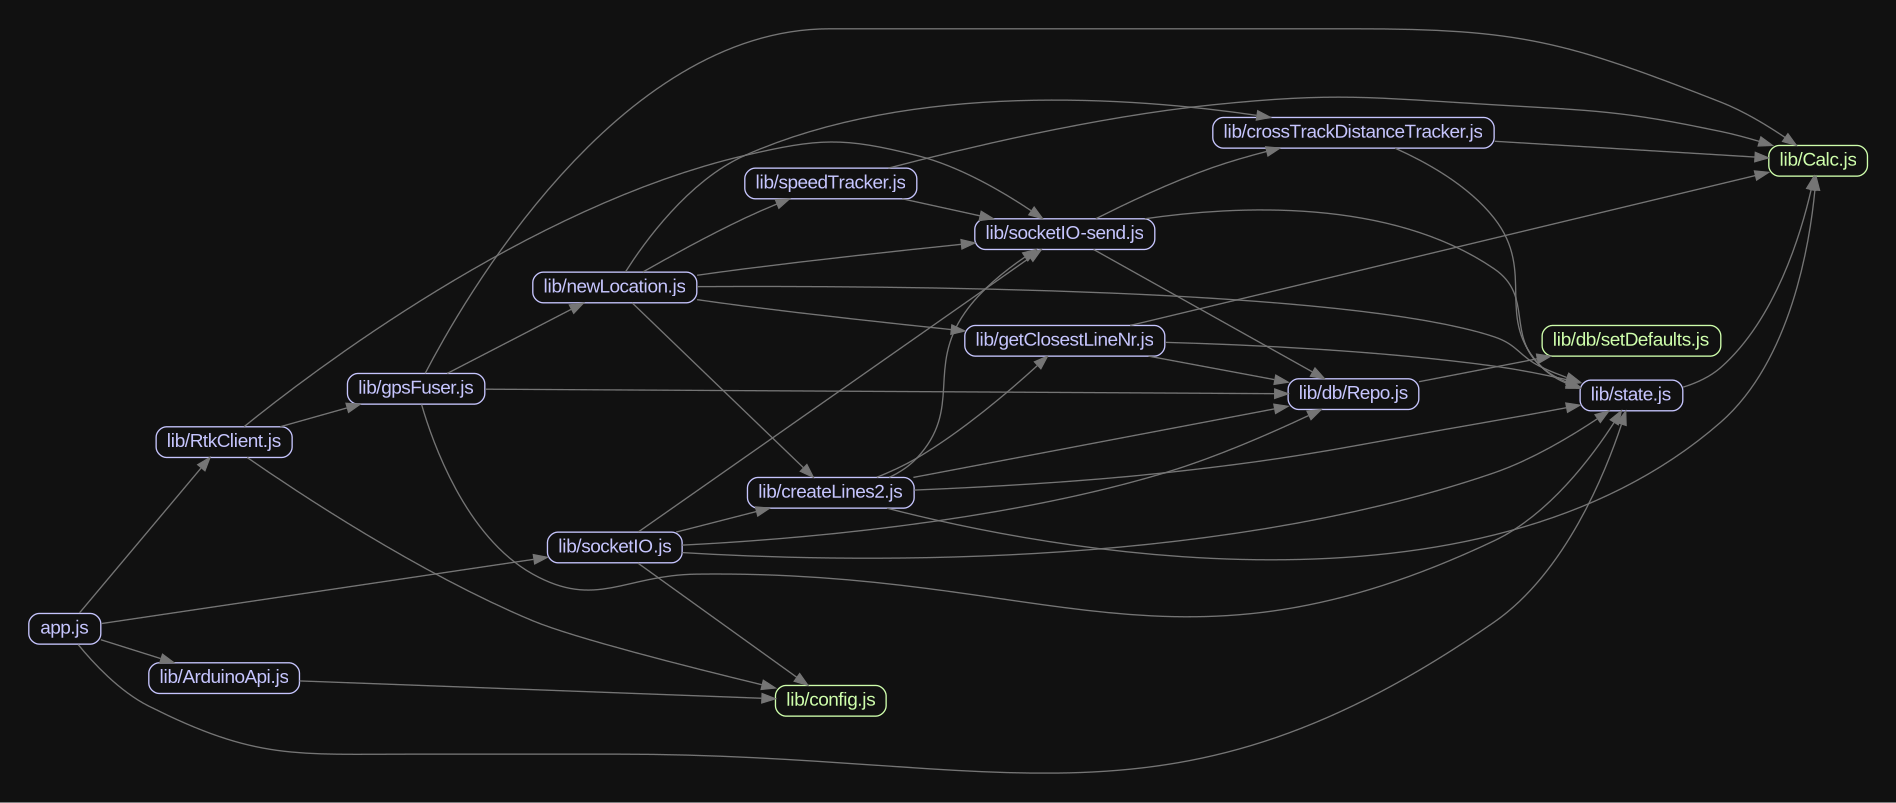
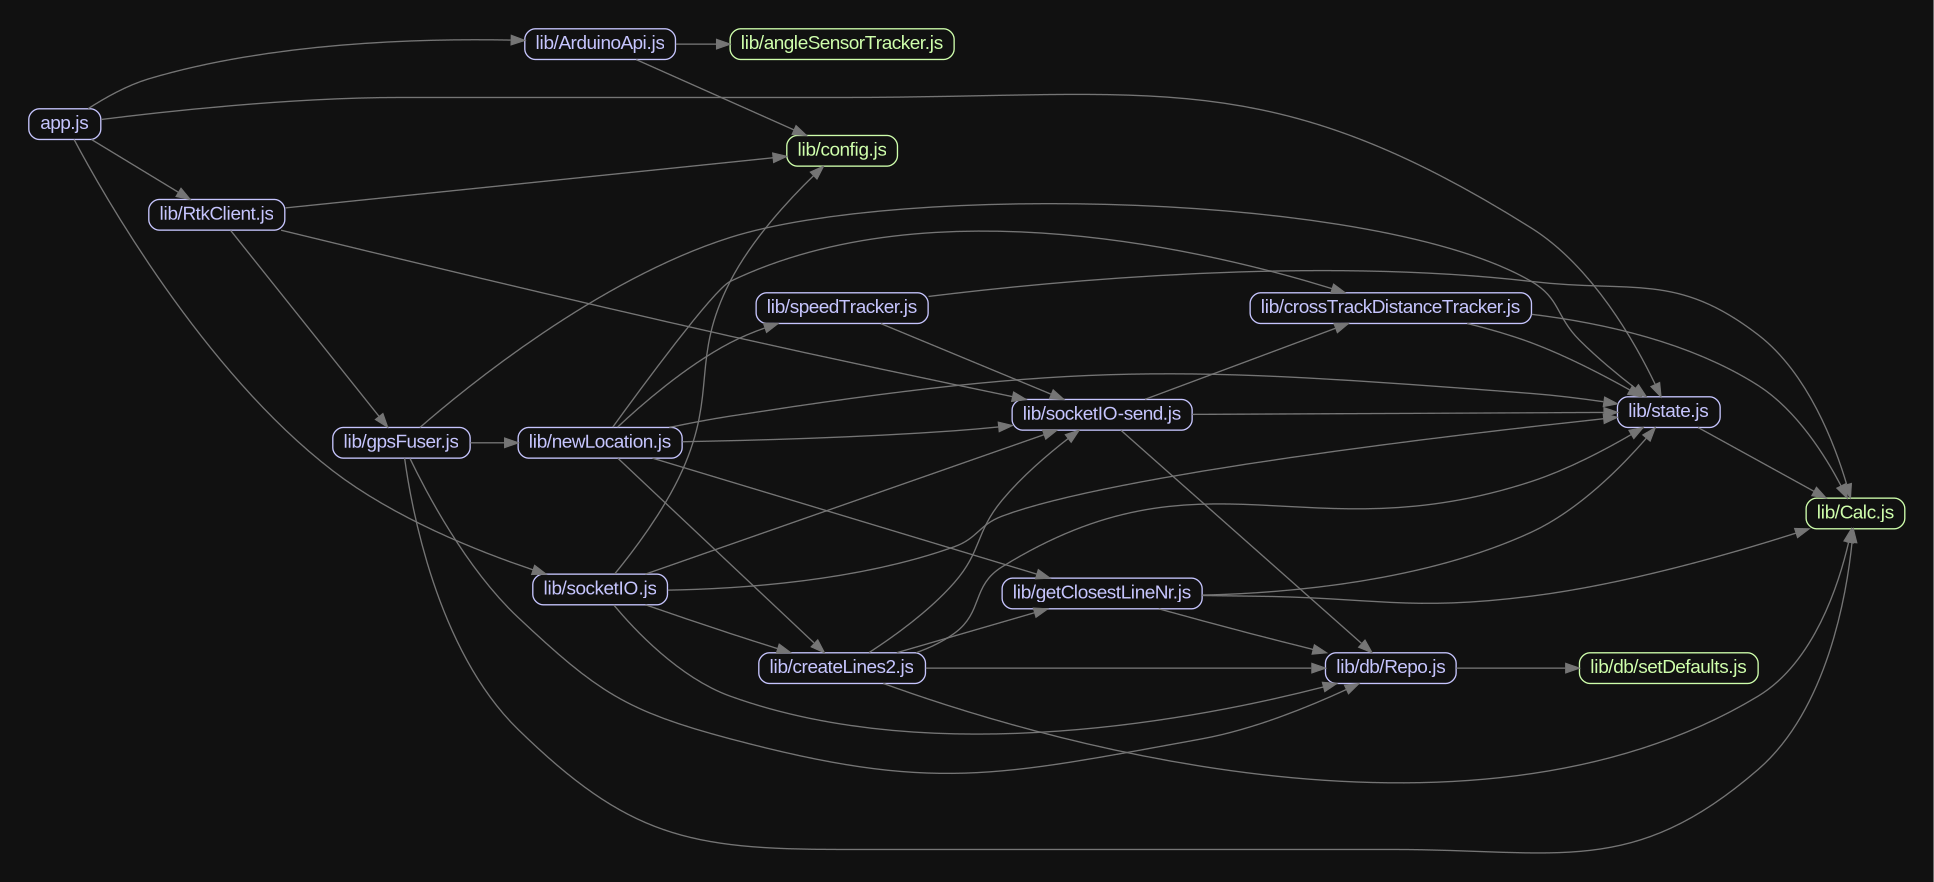
added db connection and other

diff --git a/lib/socketIO.js b/lib/socketIO.js
@@ -9,7 +9,7 @@ IoSend.init(io);
 
 
 io.on('connection', (socket) => {
-  if (Config.debug){
+  if (Config.debug) {
     console.log(`Socket users: ${io.engine.clientsCount}`);
   }
 
@@ -23,14 +23,14 @@ io.on('connection', (socket) => {
     State.pointA.here();
     State.pointB.isSet && createAndSendLines();
     IoSend.sendABIsSetStatus();
-    IoSend.sendMapABpoints();    
+    IoSend.sendMapABpoints();
     console.log("setA");
   });
   socket.on('setB', () => {
     State.pointB.here();
     State.pointA.isSet && createAndSendLines();
     IoSend.sendABIsSetStatus();
-    IoSend.sendMapABpoints();    
+    IoSend.sendMapABpoints();
   });
   socket.on('turnStop', () => {
     State.eventEmitters.steering.emit('turnStop');
@@ -42,13 +42,13 @@ io.on('connection', (socket) => {
     State.eventEmitters.steering.emit('turnLeft');
   });
   socket.on('disconnect', () => {
-    if (Config.debug){
+    if (Config.debug) {
       console.log(`Socket users: ${io.engine.clientsCount}`);
     }
   });
   socket.on('machineWidth', (data) => {
     DB.setMachineWidth(Number(data));
-    if(State.pointA.isSet && State.pointB.isSet){
+    if (State.pointA.isSet && State.pointB.isSet) {
       createAndSendLines();
     }
   });
@@ -56,19 +56,36 @@ io.on('connection', (socket) => {
     State.autoSteer = data;
     IoSend.sendAutosteerIsSet();
   });
-  
-  socket.on('getSVGData',() =>{
-    if( State.xyLines.length > 0 ){
+
+  socket.on('getSVGData', () => {
+    if (State.xyLines.length > 0) {
       IoSend.sendMapLines(socket);
-    }    
+    }
   });
-  socket.on('getMachineWidth',() => {
+  socket.on('getMachineWidth', () => {
     IoSend.sendMachineWidth();
+  });
+  socket.on('log', (data) => {
+    console.log(data);
+  });
+  socket.on('saveAngleSensorSettings', ({ maxLeft, straight, maxRight }) => {
+    DB.setSteeringAngleSensor(maxLeft, straight, maxRight);
+    IoSend.sendangleSensorSaveSuccess(socket);
+  });
+  socket.on('saveMachineSettings', ({antennaHeight, antennaToFrontAxleDistance, maxSteeringAngle}) => {
+    DB.setMachineSettinges(antennaHeight,  antennaToFrontAxleDistance, maxSteeringAngle);
+    IoSend.sendMachineSettingsSaveSuccess(socket);
   })
+  socket.on('getAngleSensorSettings', () => {
+    IoSend.sendAngleSensorSettings();
+  });
+  socket.on('getMachineSettings', () => {
+    IoSend.sendMachineSettings();
+  });
 });
 
 io.listen(Config.socketIoPort);
-  
-if (Config.debug){
+
+if (Config.debug) {
   console.log(`Listening to port ${Config.socketIoPort}`);
 }

diff --git a/lib/socketIO-send.js b/lib/socketIO-send.js
@@ -86,7 +86,8 @@ function sendMachineWidth(socket){
 function SendNewUserData(socket){
   sendABIsSetStatus(socket);
   sendAutosteerIsSet(socket);
-  sendCrossTrackDistanceHistory(socket)
+  sendCrossTrackDistanceHistory(socket);
+  sendAngleSensorSettings(socket);
 }
 
 function sendSpeed(speed){
@@ -107,6 +108,34 @@ function sendCrossTrackDistanceHistory(socket){
   socket.emit('crossTrackDistanceHistory', CrossTrackDistanceTracker.getHistory());
 }
 
+function sendRawAngleSensor(data){
+  io.emit('rawAngleSensorValue', data);
+}
+
+function sendAngleSensorSettings(socket){
+  if(!socket){
+    socket = io;
+  }
+  socket.emit('angleSensorSettings', DB.getSettings().steeringAngleSensor);
+}
+function sendangleSensorSaveSuccess(socket){
+  if(!socket){
+    socket = io;
+  }
+  socket.emit('angleSensorSaveSuccess');
+}
+function sendMachineSettingsSaveSuccess(socket){
+  if(!socket){
+    socket = io;
+  }
+  socket.emit('machineSettingsSaveSuccess');
+}
+function sendMachineSettings(socket){
+  if(!socket){
+    socket = io;
+  }
+  socket.emit('machineSettings', DB.getSettings().machine)
+}
 module.exports = { 
   init,
   sendInfo,
@@ -119,5 +148,10 @@ module.exports = {
   SendNewUserData,
   sendMachineWidth,
   sendCurrentLineNumber,
-  sendMapABpoints
+  sendMapABpoints,
+  sendRawAngleSensor,
+  sendAngleSensorSettings,
+  sendangleSensorSaveSuccess,
+  sendMachineSettings,
+  sendMachineSettingsSaveSuccess
 };

diff --git a/lib/state.js b/lib/state.js
@@ -3,7 +3,6 @@ const events = require('events');
 const Calc = require('./Calc');
 
 let state = {
-  isGoogleMaps: true,
   autoSteer: false,
   gps: {
     currentLocation: undefined,
@@ -48,13 +47,6 @@ let state = {
     const pointA = this.pointA.location;
     const pointB = this.pointB.location;
     return Calc.bearing(pointA, pointB);
-  },
-  get centerLocation(){
-    const pointA = this.pointA.location;
-    const pointB = this.pointB.location;
-    const distance = Calc.distance(pointA, pointB);
-    const centerlocation = Calc.coord(pointA, this.abLineBearing, distance / 2);
-    return centerlocation;
   },
   eventEmitters: {
     steering: new events.EventEmitter(),

diff --git a/lib/ArduinoApi.js b/lib/ArduinoApi.js
@@ -1,6 +1,7 @@
 const SerialPort = require('serialport');
 const Readline = require('@serialport/parser-readline');
 const config = require('./config');
+const AngleSensorTracker = require('./angleSensorTracker');
 
 const arduinoApi = function(){
   const arduinoPort = new SerialPort(config.arduino.path, {
@@ -28,8 +29,7 @@ const arduinoApi = function(){
         // console.log(error);
     }
     if(line !== undefined){
-        //    console.log(line.steer);
-        WHEELPOSTRACKER.addRawWired(line.steer);
+        AngleSensorTracker.addRaw(line.steer);
     }
   });
 }

diff --git a/lib/db/Repo.js b/lib/db/Repo.js
@@ -11,6 +11,12 @@ class Repo{
   static setMachineWidth(width){
     db.set('settings.machineWidth', width).write();
   }
+  static setSteeringAngleSensor(maxLeft, straight, maxRight){
+    db.set('settings.steeringAngleSensor', {maxLeft, straight, maxRight}).write();
+  }
+  static setMachineSettinges(antennaHeight,  antennaToFrontAxleDistance, maxSteeringAngle){
+    db.set('settings.machine', {antennaHeight, antennaToFrontAxleDistance, maxSteeringAngle}).write();
+  }
 }
 
 module.exports = Repo

diff --git a/lib/angleSensorTracker.js b/lib/angleSensorTracker.js
@@ -1,0 +1,12 @@
+const ioSend = require('./socketIO-send');
+
+const AngleSensorTracker = (() => {
+    function addRaw(data){
+        ioSend.sendRawAngleSensor(data);
+    }
+    return {
+        addRaw
+    }
+})();
+
+module.exports = AngleSensorTracker;

diff --git a/lib/config.js b/lib/config.js
@@ -12,7 +12,7 @@ module.exports = {
     }, 
   ],
   arduino:{
-    path: '/dev/steermotor',
+    path: '/dev/ttyUSB0',
     baudRate: 115200,
   },
   debug: true,
